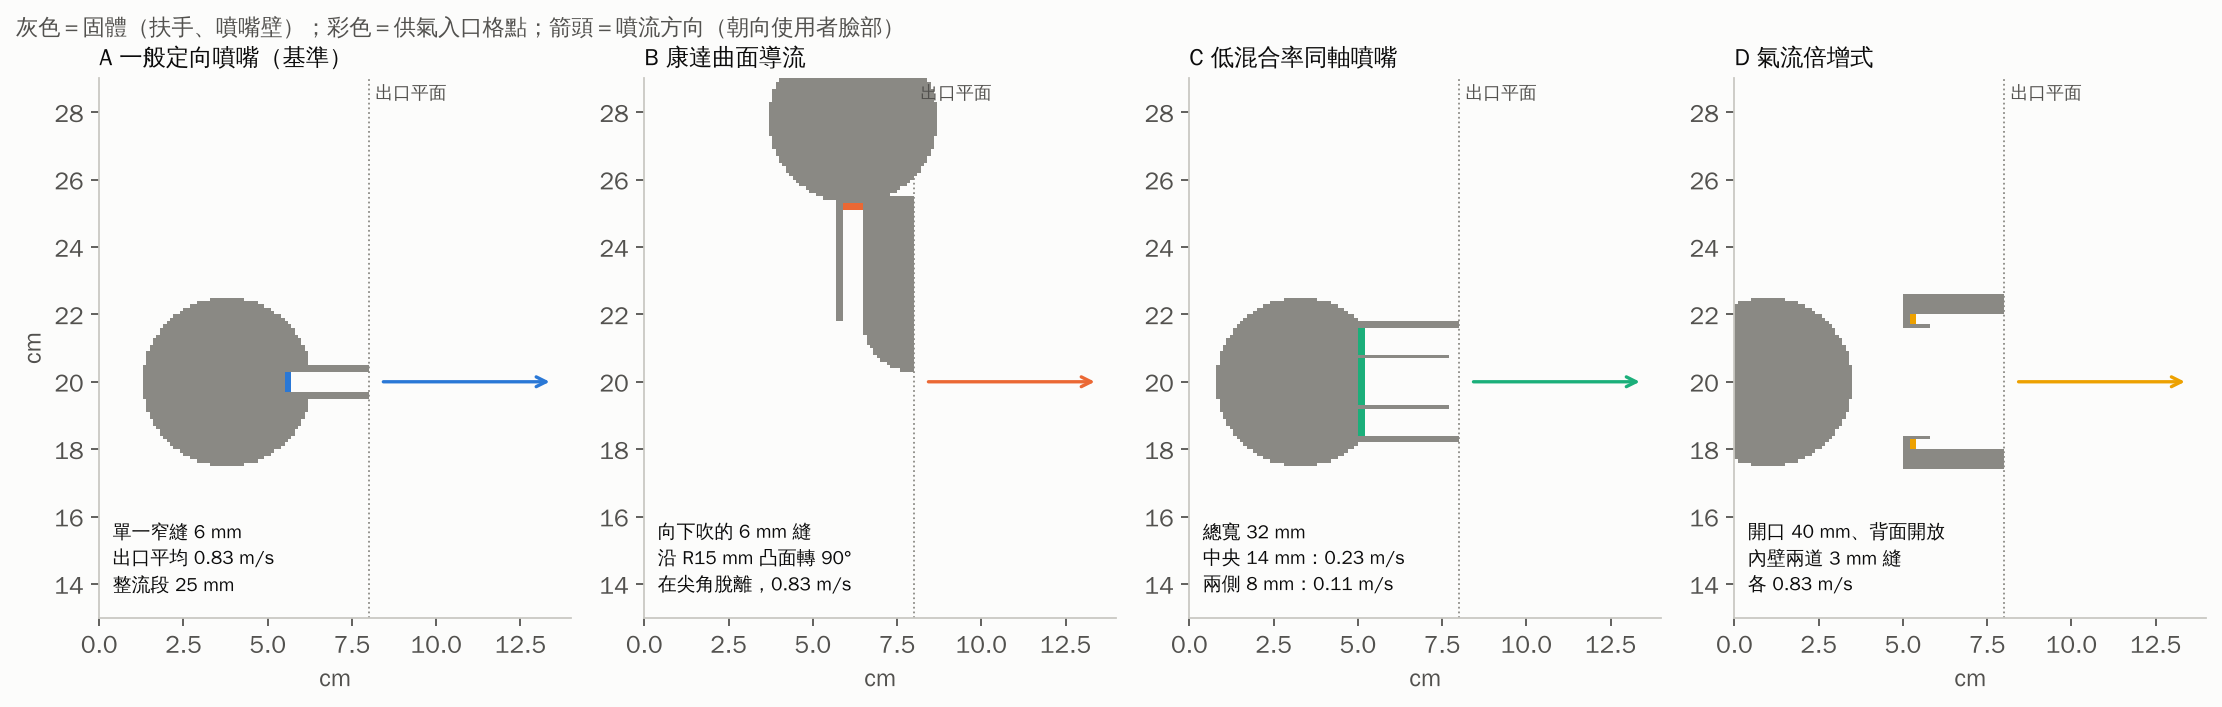
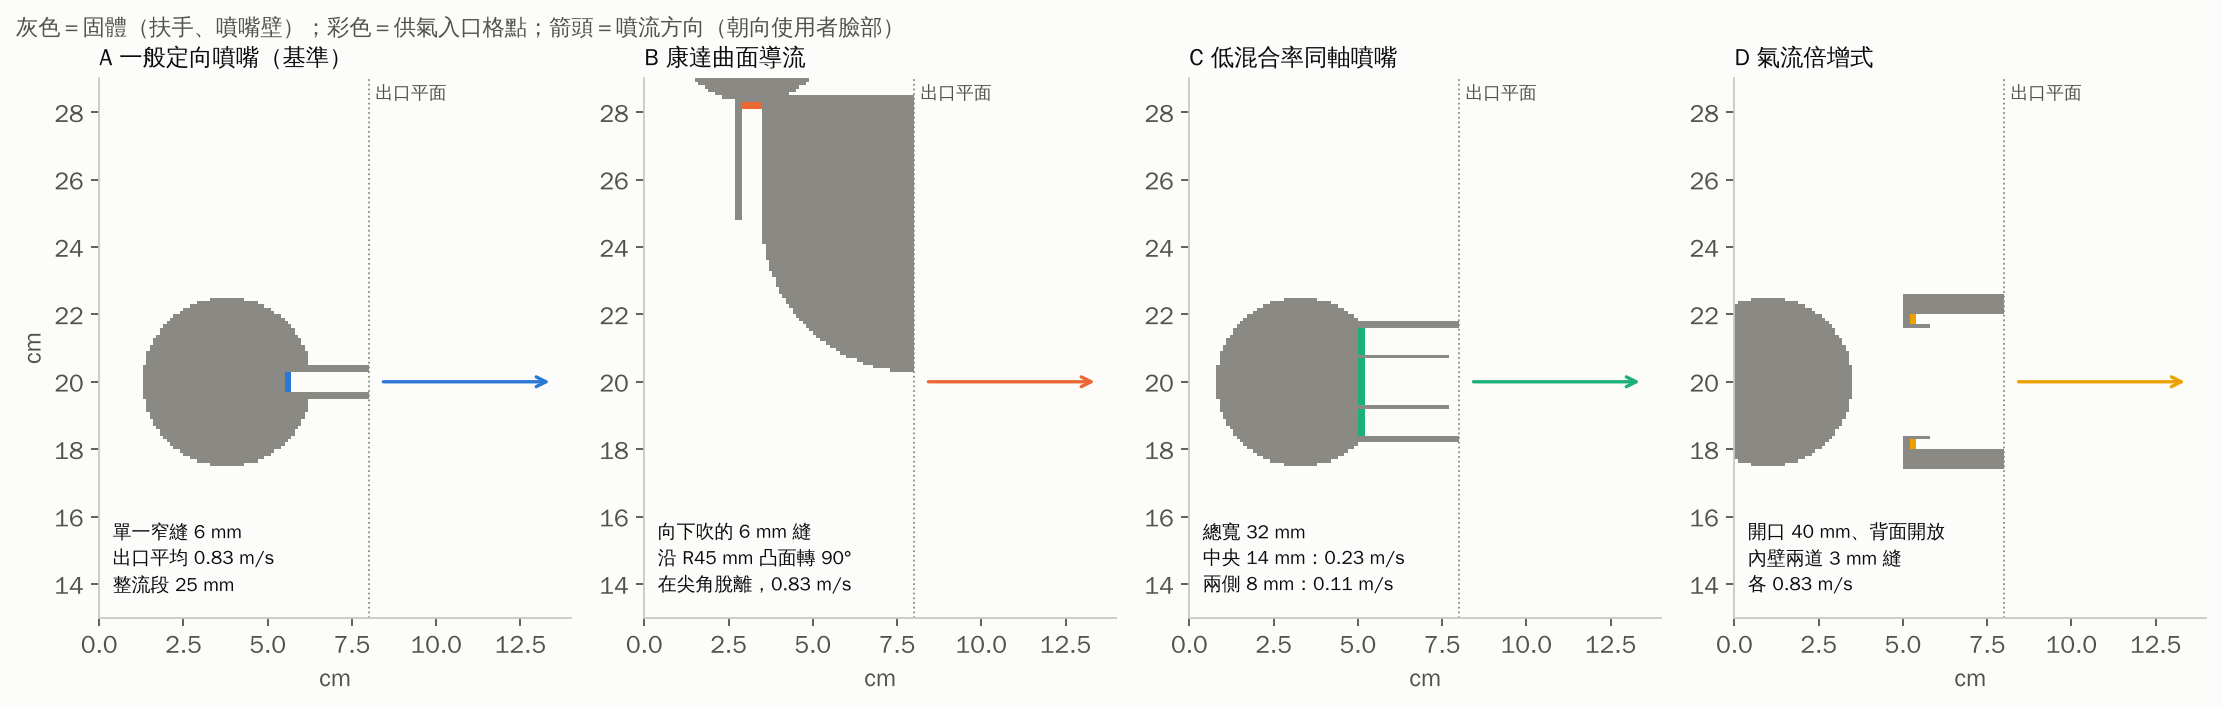
Coanda nozzle: enlarge turning radius to 45 mm after R15 jet separated
The first Coanda geometry (R/b = 2.5) let the jet separate straight down
instead of following the surface; those runs are kept as coanda_r15_* and
reported as a design lesson. Adds a detached continuation runner.

Claude-Session: https://claude.ai/code/session_01CLMVR9XzZXdsSKCMSLUbBG

Changed region(s): [[0.3105, 0.0934, 0.4347, 0.529]]

diff --git a/stairwell-airflow-sim/cases/build.py b/stairwell-airflow-sim/cases/build.py
@@ -74,8 +74,9 @@ def nozzle_plain(X, Y, t, ux, uy):
 
 
 def nozzle_coanda(X, Y, t, ux, uy):
-    """B：6 mm 出風縫向下吹，沿半徑 15 mm 凸曲面轉 90°，在尖角處脫離後沿 +x 前進。"""
-    b, Rc, wall, H = 6e-3, 15e-3, 2e-3, 35e-3
+    """B：6 mm 出風縫向下吹，沿半徑 45 mm 凸曲面轉 90°，在尖角處脫離後沿 +x 前進。
+    （第一版 R=15 mm、R/b=2.5 時噴流直接分離往下吹，見 runs/coanda_r15_*；改為 R/b=7.5。）"""
+    b, Rc, wall, H = 6e-3, 45e-3, 2e-3, 35e-3
     U = Q_SUPPLY / b
     lcx, lcy = X0, Y0 + Rc + b / 2           # 曲面圓心：轉完 90° 後噴流中心正好在 y=Y0
     # 導流體：上方方塊 + 左下四分之一圓弧；右側垂直面與圓弧底點形成尖角（脫離點）

diff --git a/stairwell-airflow-sim/analysis/s2_geometry.py b/stairwell-airflow-sim/analysis/s2_geometry.py
@@ -12,7 +12,7 @@ import build as B  # noqa: E402
 
 NOTES = {
     "plain": "單一窄縫 6 mm\n出口平均 0.83 m/s\n整流段 25 mm",
-    "coanda": "向下吹的 6 mm 縫\n沿 R15 mm 凸面轉 90°\n在尖角脫離，0.83 m/s",
+    "coanda": "向下吹的 6 mm 縫\n沿 R45 mm 凸面轉 90°\n在尖角脫離，0.83 m/s",
     "coax": "總寬 32 mm\n中央 14 mm：0.23 m/s\n兩側 8 mm：0.11 m/s",
     "amp": "開口 40 mm、背面開放\n內壁兩道 3 mm 縫\n各 0.83 m/s",
 }
